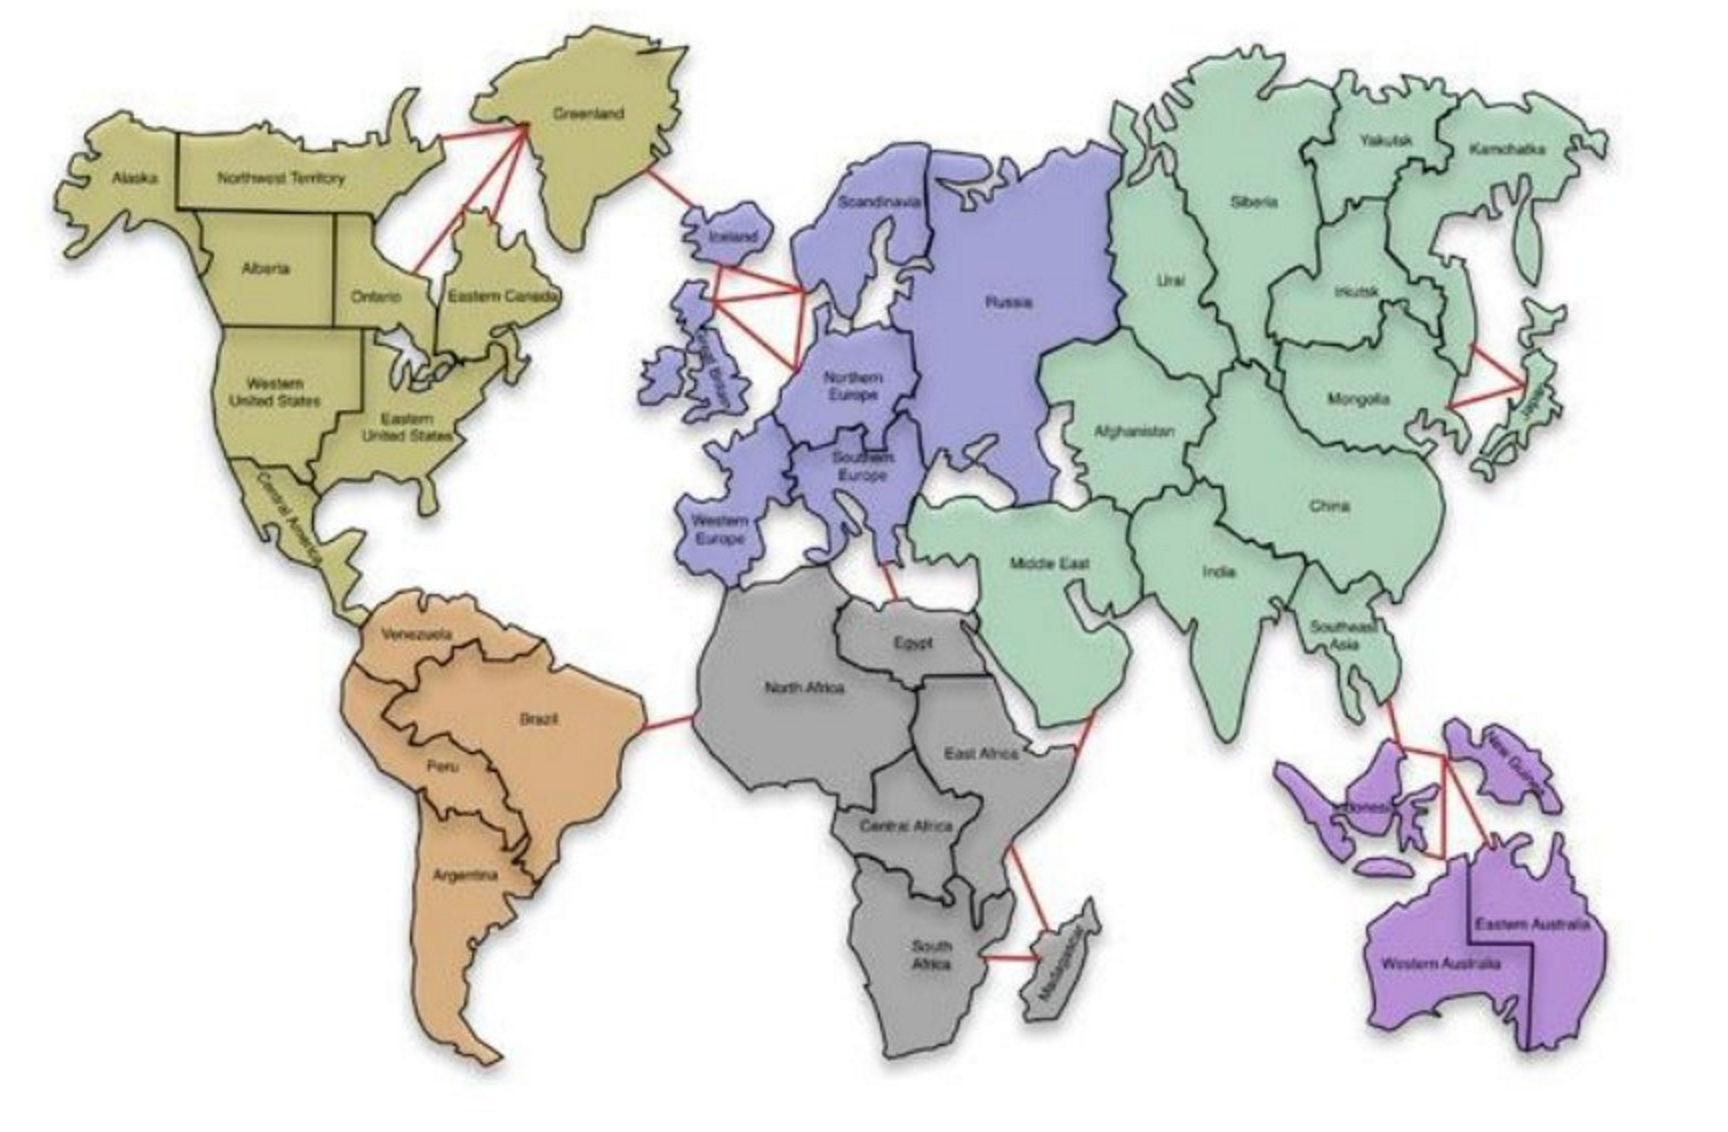
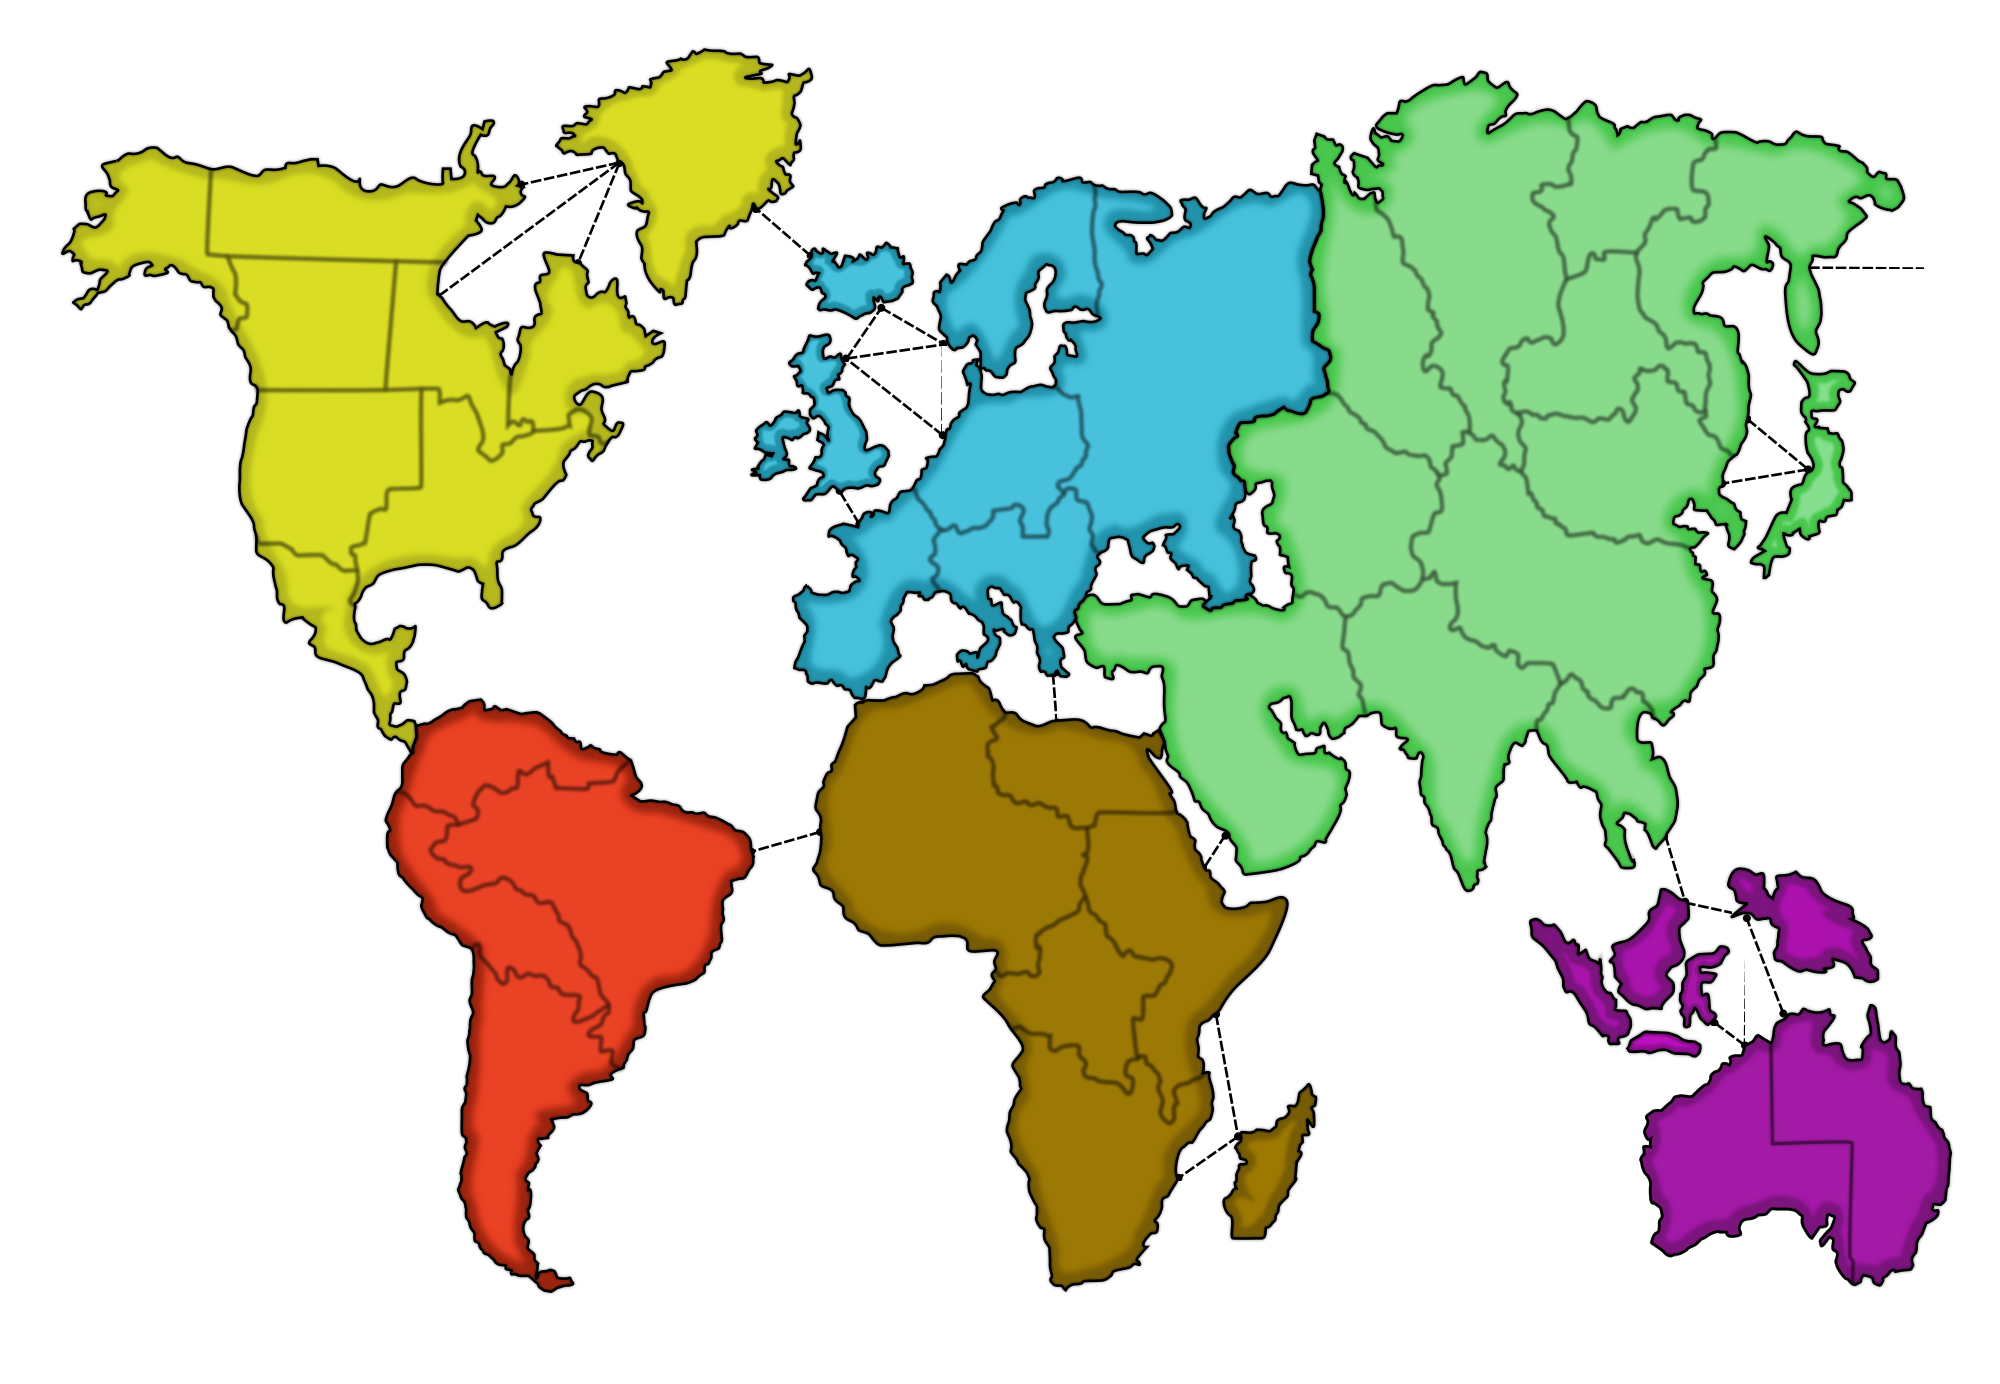
Change risk board.

diff --git a/board.py b/board.py
@@ -283,7 +283,7 @@ class Board(object):
 
     def plot_board(self):
         """ Plot the board. """
-        im = plt.imread(os.getcwd() + '/risk.png')
+        im = plt.imread(os.getcwd() + '/risk1.png')
         plt.figure(figsize=(16, 24))
         _ = plt.imshow(im)
         for t in self.data:
@@ -301,8 +301,8 @@ class Board(object):
             armies (int): the number of armies.
         """
         coor = definitions.territory_locations[territory_id]
-        plt.scatter([coor[0]], [coor[1]], s=1250, c=definitions.player_colors[player_id])
-        plt.text(coor[0], coor[1] + 25, s=str(armies),
+        plt.scatter([coor[0]*1.2], [coor[1]*1.22], s=1250, c=definitions.player_colors[player_id])
+        plt.text(coor[0]*1.2, coor[1]*1.22 + 25, s=str(armies),
                  color='black' if definitions.player_colors[player_id] in ['yellow', 'pink'] else 'white',
                  ha='center', size=30)
 
